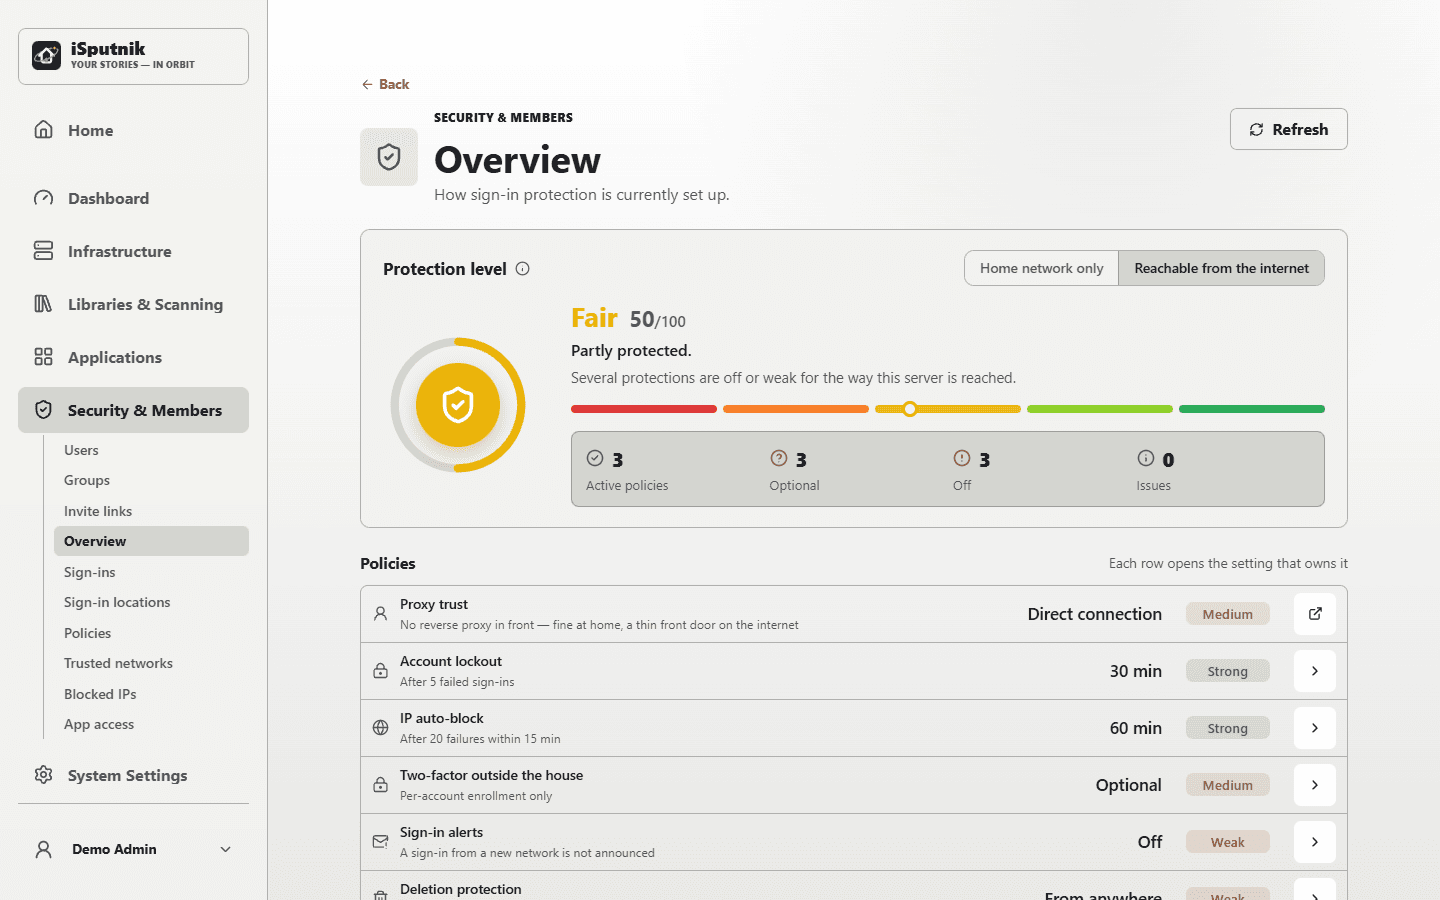
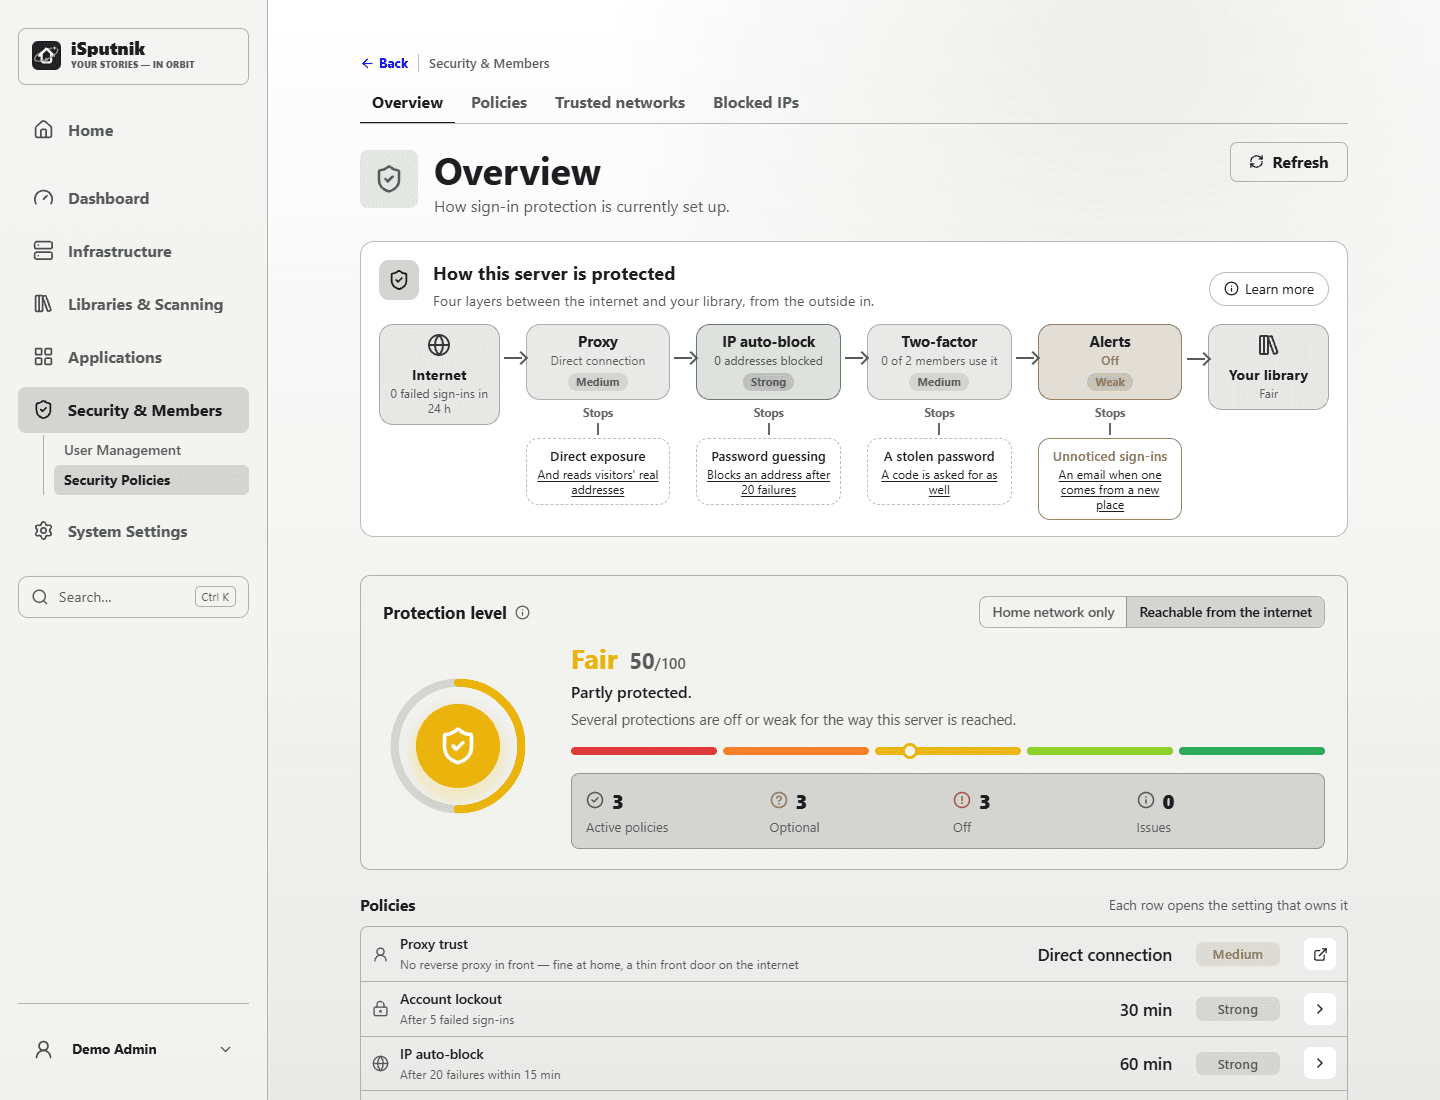
docs(guides): retake the screenshots the control panel changes made stale
Eleven pictures against the demo site: the Dashboard with its tab row,
Security overview with its diagram, User Management (Users, Groups,
Invite links), the Maps page at System Settings, Device Sync with its
diagram, and Videos' Video Streaming and Video Downloads tabs. Five
shots pointed at addresses or headings that are gone; the shot list and
six captions follow the pages as they are.

fix(control): on Video Streaming a row's dropdown drops under a long
label instead of squeezing it to a word a line, and the GPU's
acceleration line wraps between words.

diff --git a/apps/web/src/styles/admin.css b/apps/web/src/styles/admin.css
@@ -3572,8 +3572,12 @@ tr.control-anchor-flash > td {
 .video-hw-text strong { font-size: 0.98rem; font-weight: 650; line-height: 1.25; overflow-wrap: anywhere; font-variant-numeric: tabular-nums; }
 .video-hw-item.is-metric strong { font-size: 1.05rem; }
 .video-hw-text strong.is-warn { color: var(--warning); }
-.video-hw-state { display: inline-flex; align-items: center; gap: 5px; color: var(--muted); font-size: 0.82rem; }
-.video-hw-state i { width: 8px; height: 8px; border-radius: 50%; background: var(--muted); }
+.video-hw-state { display: inline-flex; flex-wrap: wrap; align-items: center; gap: 2px 5px; color: var(--muted); font-size: 0.82rem; }
+.video-hw-state i { flex: none; width: 8px; height: 8px; border-radius: 50%; background: var(--muted); }
+/* The settings under the box sit two lists side by side, so a row's dropdown drops
+   under a long label at any width rather than squeezing it to a word a line. */
+.video-hw .grouped-row-input:has(select) { flex-wrap: wrap; }
+.video-hw .grouped-row-input:has(select) .grouped-row-label { min-width: min(220px, 100%); }
 .video-hw-state b { font-weight: 600; }
 .video-hw-state.is-inUse i { background: var(--success); }
 .video-hw-state.is-inUse b { color: var(--success); }

diff --git a/docs/users/apps.md b/docs/users/apps.md
@@ -274,7 +274,7 @@ kept video at once — less room than is in use, and a shorter retention — so 
 ask first and say what goes. **Current usage** under them says what the room holds:
 cached videos, downloads, and what is left.
 
-![Converting video: who is converting now, Where to convert, and Where converted video is kept with the fast disk, its free space, Keep converted video set to In memory, then on the disk, and the memory for conversion](images/125-video-storage.png)
+![Videos › Video Streaming: how video plays, then Hardware & transcoding with the GPU, CPU, memory and disk cache in one row, the hardware and limits settings, and Disk & memory](images/125-video-storage.png)
 
 ### Watched together, and kept after watching
 
@@ -655,7 +655,7 @@ with a bar under it for what that room holds — and **Kept films and copies**, 
   watching. Your video files and what people have already downloaded are not
   affected.
 
-![Copies for download: the copies kept, Kept after watching, Kept ready and Room for kept video, GB](images/126-video-kept.png)
+![Video Downloads › Copies for download: the copies kept, Kept after watching and Kept ready](images/126-video-kept.png)
 
 A copy whose picture is re-encoded is made the same way as watching it, a stretch
 at a time, into the same kept film, then put together into one file in seconds.
@@ -710,7 +710,7 @@ films finished off after watching — and its **Queue** row opens what runs and 
 - **Queue** — what runs and what waits. The **⋮** beside each has **Run now**
   (whatever the time or load), **Move to the top** and **Take off the queue**.
 
-![When downloads are prepared: Prepare set to Right away, the limits for jobs at once, downloads waiting per member and download speed away from home, and the queue](images/127-video-downloads-prepared.png)
+![Videos › Video Downloads: how downloads work, the queue and kept copies, and the download rules — when copies are prepared, jobs at once, downloads waiting per member and download speed away from home](images/127-video-downloads-prepared.png)
 
 ## Subtitles
 

diff --git a/docs/users/phone-sync-setup.md b/docs/users/phone-sync-setup.md
@@ -103,7 +103,7 @@ phone opens its own page: its member, last contact, the address and network it l
 what is wrong now, the libraries it is linked to, **This phone's history** in the logs, and
 **Remove this phone**.
 
-![Applications › Gallery › Device Sync: the networks, the address phones use, and every member's phones with their last contact](images/122-phone-sync.png)
+![Applications › Gallery › Device Sync: how phone backup works, the numbers, personal libraries, the allowed networks and the address phones use](images/122-phone-sync.png)
 
 - **A member's page › Account** has a *Personal library and phones* card: the library's size
   (with a warning near the limit), each phone with when it was added and last made contact, and

diff --git a/docs/users/exposing-to-the-internet.md b/docs/users/exposing-to-the-internet.md
@@ -80,7 +80,7 @@ protected, and the toggle switches the scoring between a home network and one
 reachable from the internet — the same settings are judged far more harshly on
 the second:
 
-![The Security overview, scoring each protection for a server reachable from the internet](images/64-security-overview.png)
+![Security Policies › Overview: how the server is protected, then the protection level for a server reachable from the internet](images/64-security-overview.png)
 
 - **Turn on two-factor authentication** for admin accounts, and encourage everyone
   to use it — see [Two-factor authentication](two-factor-authentication.md).

diff --git a/docs/users/control-panel.md b/docs/users/control-panel.md
@@ -850,7 +850,7 @@ under the group. Who signed in, and from where, is on the Dashboard's **Sign-ins
 Three tabs: the people, the groups you gather them into, and the invite links
 that bring new ones in.
 
-![The Users tab, with the first administrator carrying its Protected badge](images/65-members.png)
+![User Management › Users, with the first administrator carrying its Protected badge](images/65-members.png)
 
 - **Users** — one row per person, with a search above the list: their initials,
   name, any marks (**Current**, **Protected**, **Locked**), address and role, and
